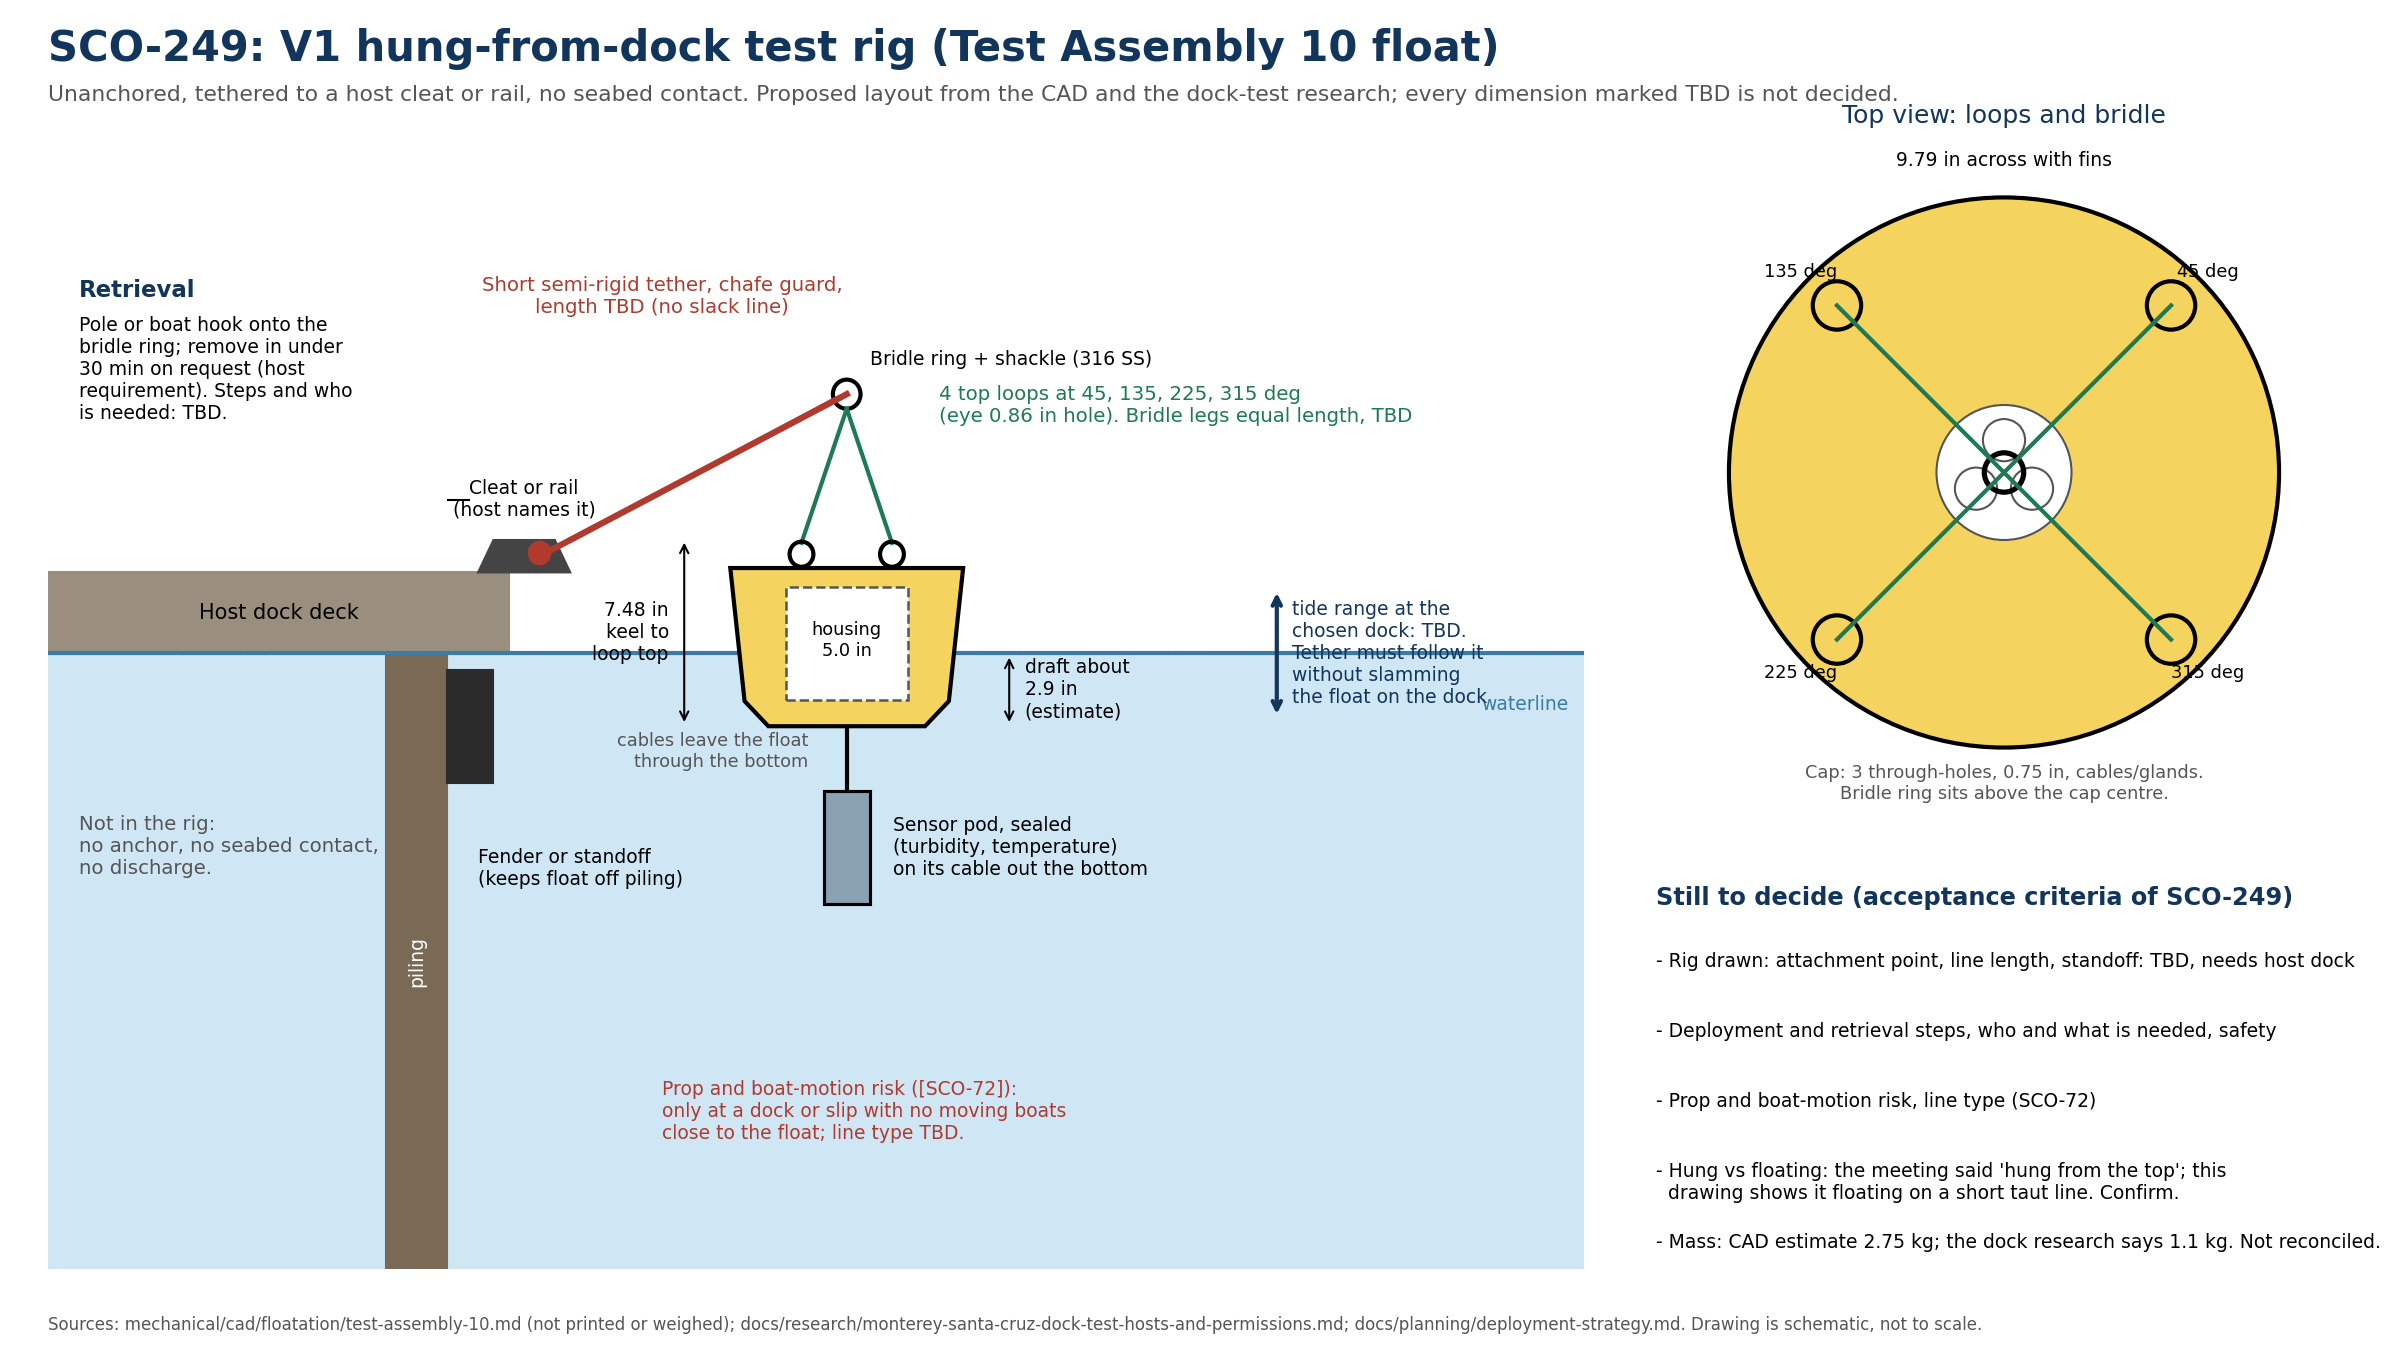
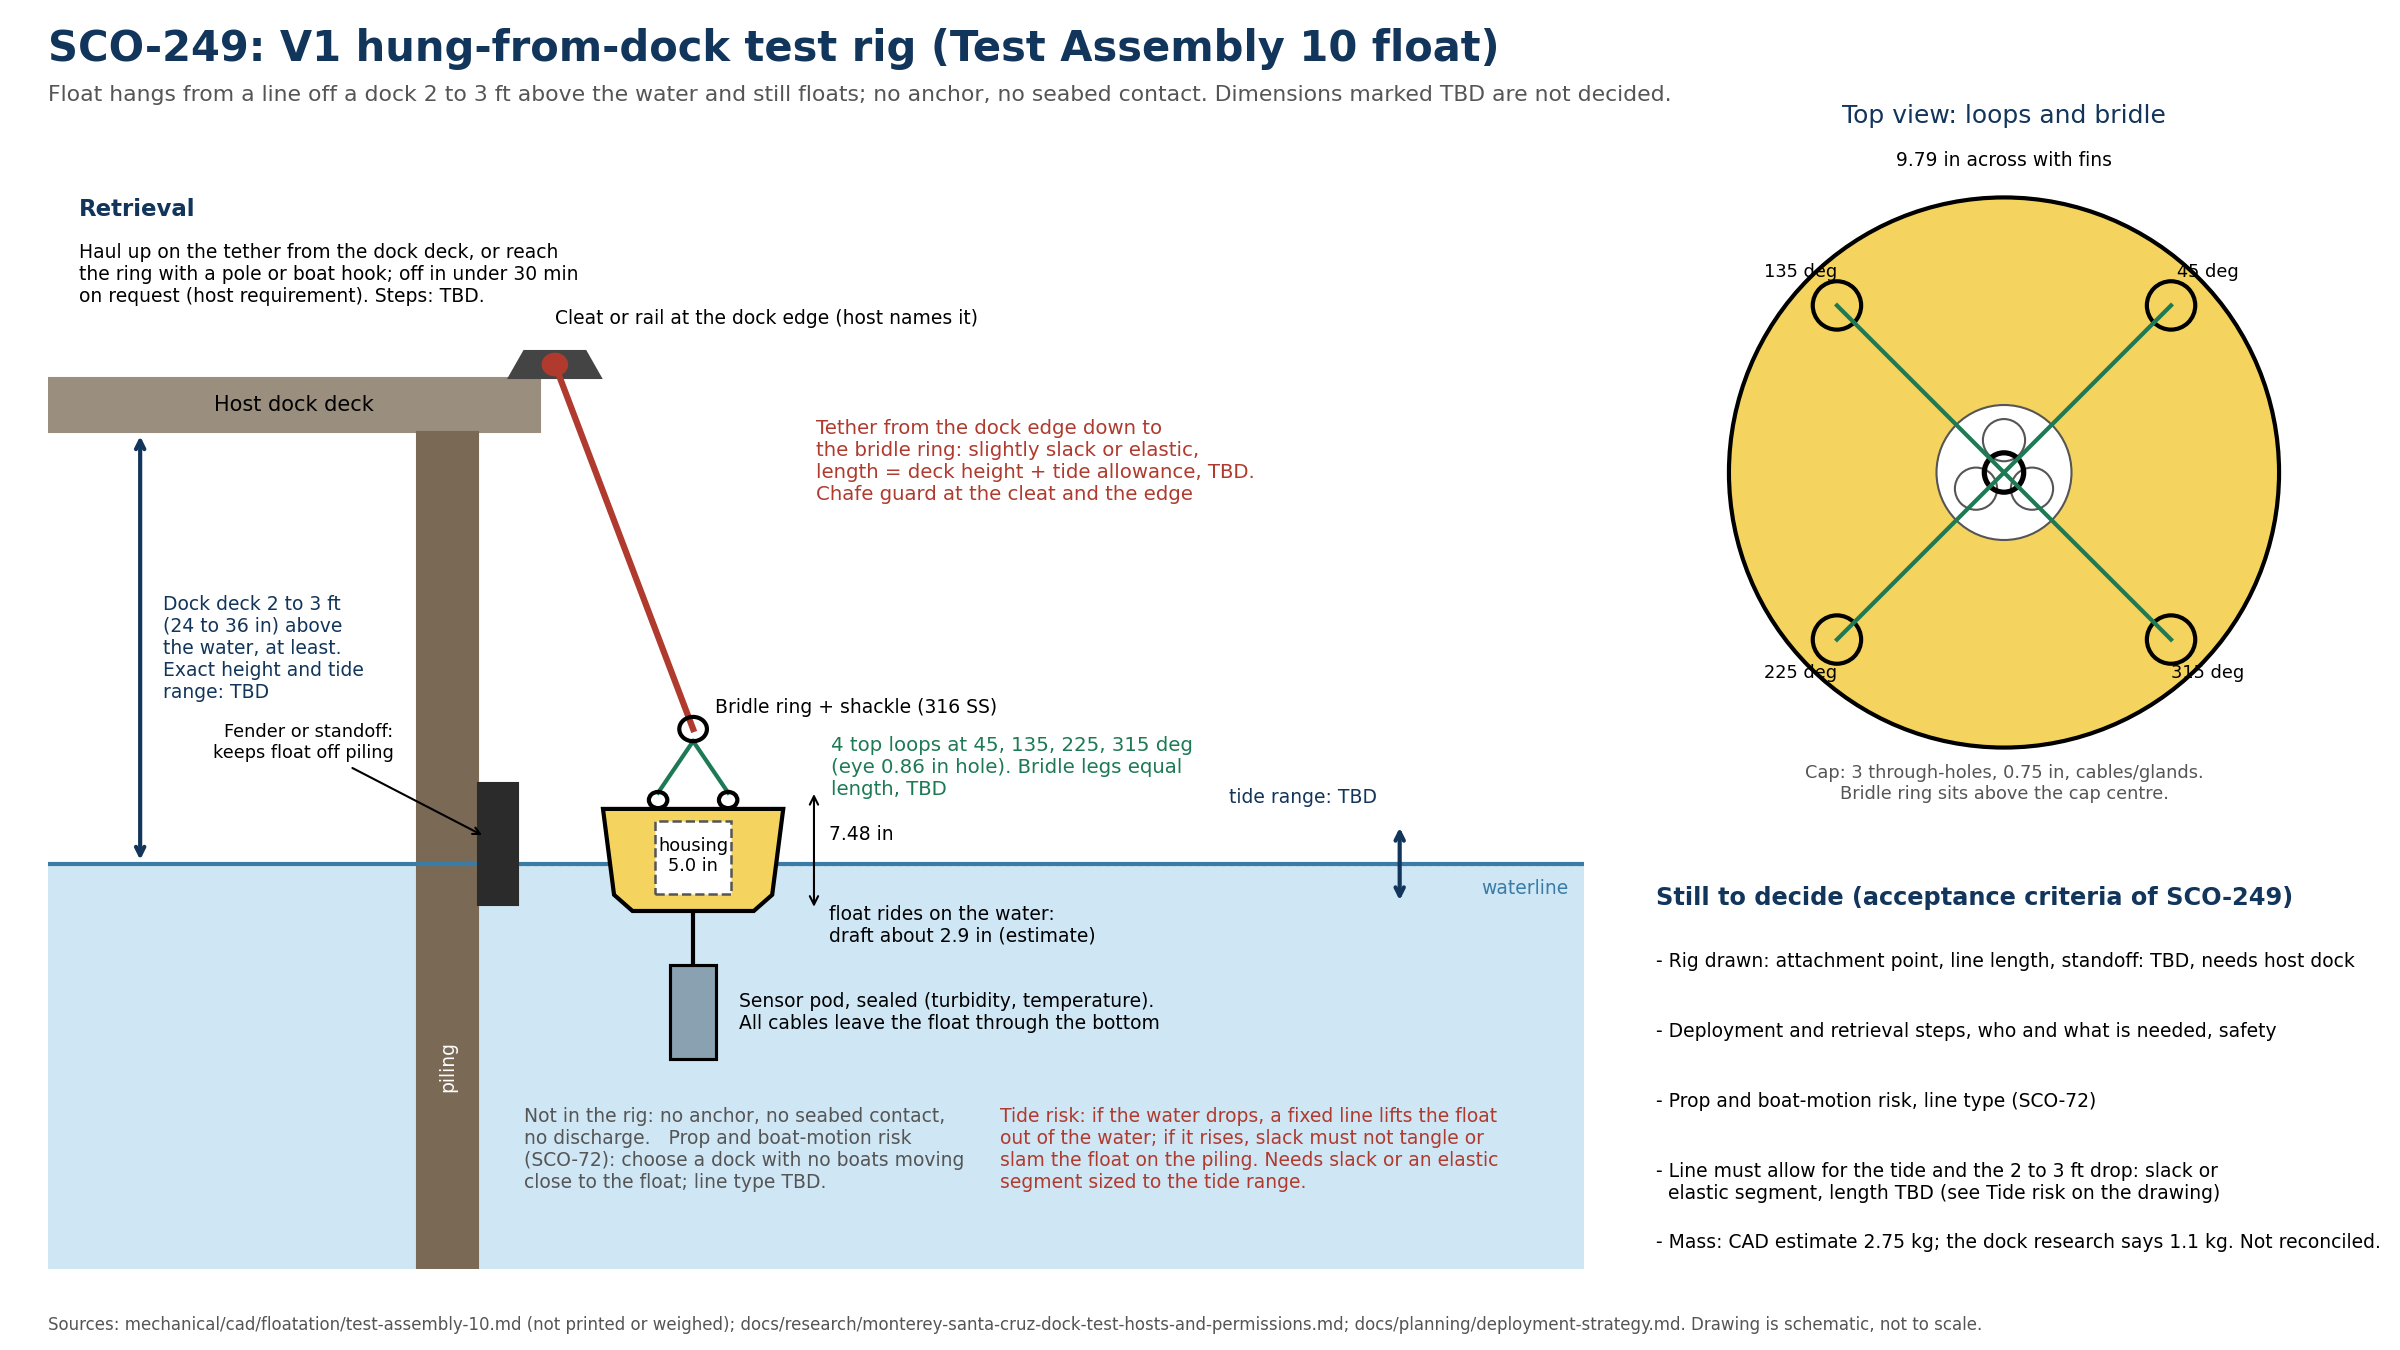
docs(planning): redraw the SCO-249 rig with the dock 2 to 3 ft above the water
The float hangs from a line off the dock and still floats, so the drawing now
shows the deck height and the tide allowance the tether must cover.

Changed region(s): [[0.0, 0.1244, 0.6875, 0.9333], [0.0312, 0.0622, 0.7812, 0.0933], [0.6875, 0.84, 0.9375, 0.9022]]

diff --git a/docs/planning/jr-weekly-todo.md b/docs/planning/jr-weekly-todo.md
@@ -21,7 +21,7 @@
 | SCO-247 | Apply and cure the waterproof coating on both buoys | In Progress, on track. John tested the coating on an older buoy type and it is soaking now | Nov 13 | Read the soak, then coat the Test Assembly 10 float. Due Nov 19 |
 | SCO-176 | Saltwater soak of the final turbidity pod | **Method changed (John, Nov 17):** reprint the pod with no holes, epoxy and Flex Seal it shut, soak it a while, then open and check. The Linear text still says a one-week soak with the Grove sensor powered; a sealed holeless pod does not show the sensor still reads | Nov 24 | Print today; rewrite the issue for the new method and a new end date |
 | SCO-218 | One-page milestone and timeline handout | 20 days overdue. Nobody specific asked: it came from the advisors asking for documentation that already exists (Oct 21 team lunch, owner not decided) | Oct 28 | Print for Wed Nov 18 or cancel; John's call |
-| SCO-249 | Hung-from-dock/boat V1 test rig and procedure | Rig diagram drawn Nov 17 (`assets/diagrams/ta10-dock-hung-test-rig-v1-2026-11-17.png`). Steps, safety, tether length and hung vs floating are open. Linear still says due Nov 20 | Nov 20 | Decide hung vs floating; write deployment and retrieval steps, or give a new date |
+| SCO-249 | Hung-from-dock/boat V1 test rig and procedure | Rig diagram drawn Nov 17 (`assets/diagrams/ta10-dock-hung-test-rig-v1-2026-11-17.png`). Float hangs from a line off a dock 2 to 3 ft above the water and still floats (John, Nov 17). Steps, safety, tether length and the tide allowance are open. Linear still says due Nov 20 | Nov 20 | Write deployment and retrieval steps and size the tether for the tide, or give a new date |
 | SCO-108 | Submersion re-test of the face-seal joint | **Canceled Nov 17** by John (covered by SCO-296 and the pod re-print) | none | None |
 | SCO-180 | 4-week saltwater float soak, no foam (unit 1) | Linear due Dec 11, but the Float soak milestone is Dec 2 and a 4-week soak cannot finish before the MVP | Dec 11 | Re-date to winter break; John approves |
 | SCO-185 | Kaneohe Bay permit determinations | In Progress, moved to Jan 4, 2027 | Jan 4 | None |
@@ -41,7 +41,7 @@
 | Thu Nov 19 | SCO-308 | Start the Test Assembly 10 float print on the P1S (runs in the background) | 0.5 h | Todo (no date) |
 | Thu Nov 19 | SCO-183 | Plan the ocean flotation test: site, permission, boat or pier, safety, January window | 2 h | Todo (due Nov 20) |
 | Thu Nov 19 | SCO-306 | Follow up the Monterey boat contacts for a winter-break test | 0.5 h | Todo (no date) |
-| Fri Nov 20 | SCO-249 | Decide hung vs floating; deployment and retrieval steps | 1.5 h | Todo (diagram done) |
+| Fri Nov 20 | SCO-249 | Deployment and retrieval steps; tether and tide allowance | 1.5 h | Todo (diagram done) |
 | Fri Nov 20 | SCO-253 | Finish the drawings, with revision and date on each | 2 h | Todo (due Nov 20) |
 | Fri Nov 20 | SCO-245 | Rescope or cancel the submersion re-test with the top attachment (the top attachment was canceled) | 0.25 h | Todo (due Nov 20) |
 | Fri Nov 20 | n/a | Buffer; refresh Linear, draft next week's "Last week" block | | |
